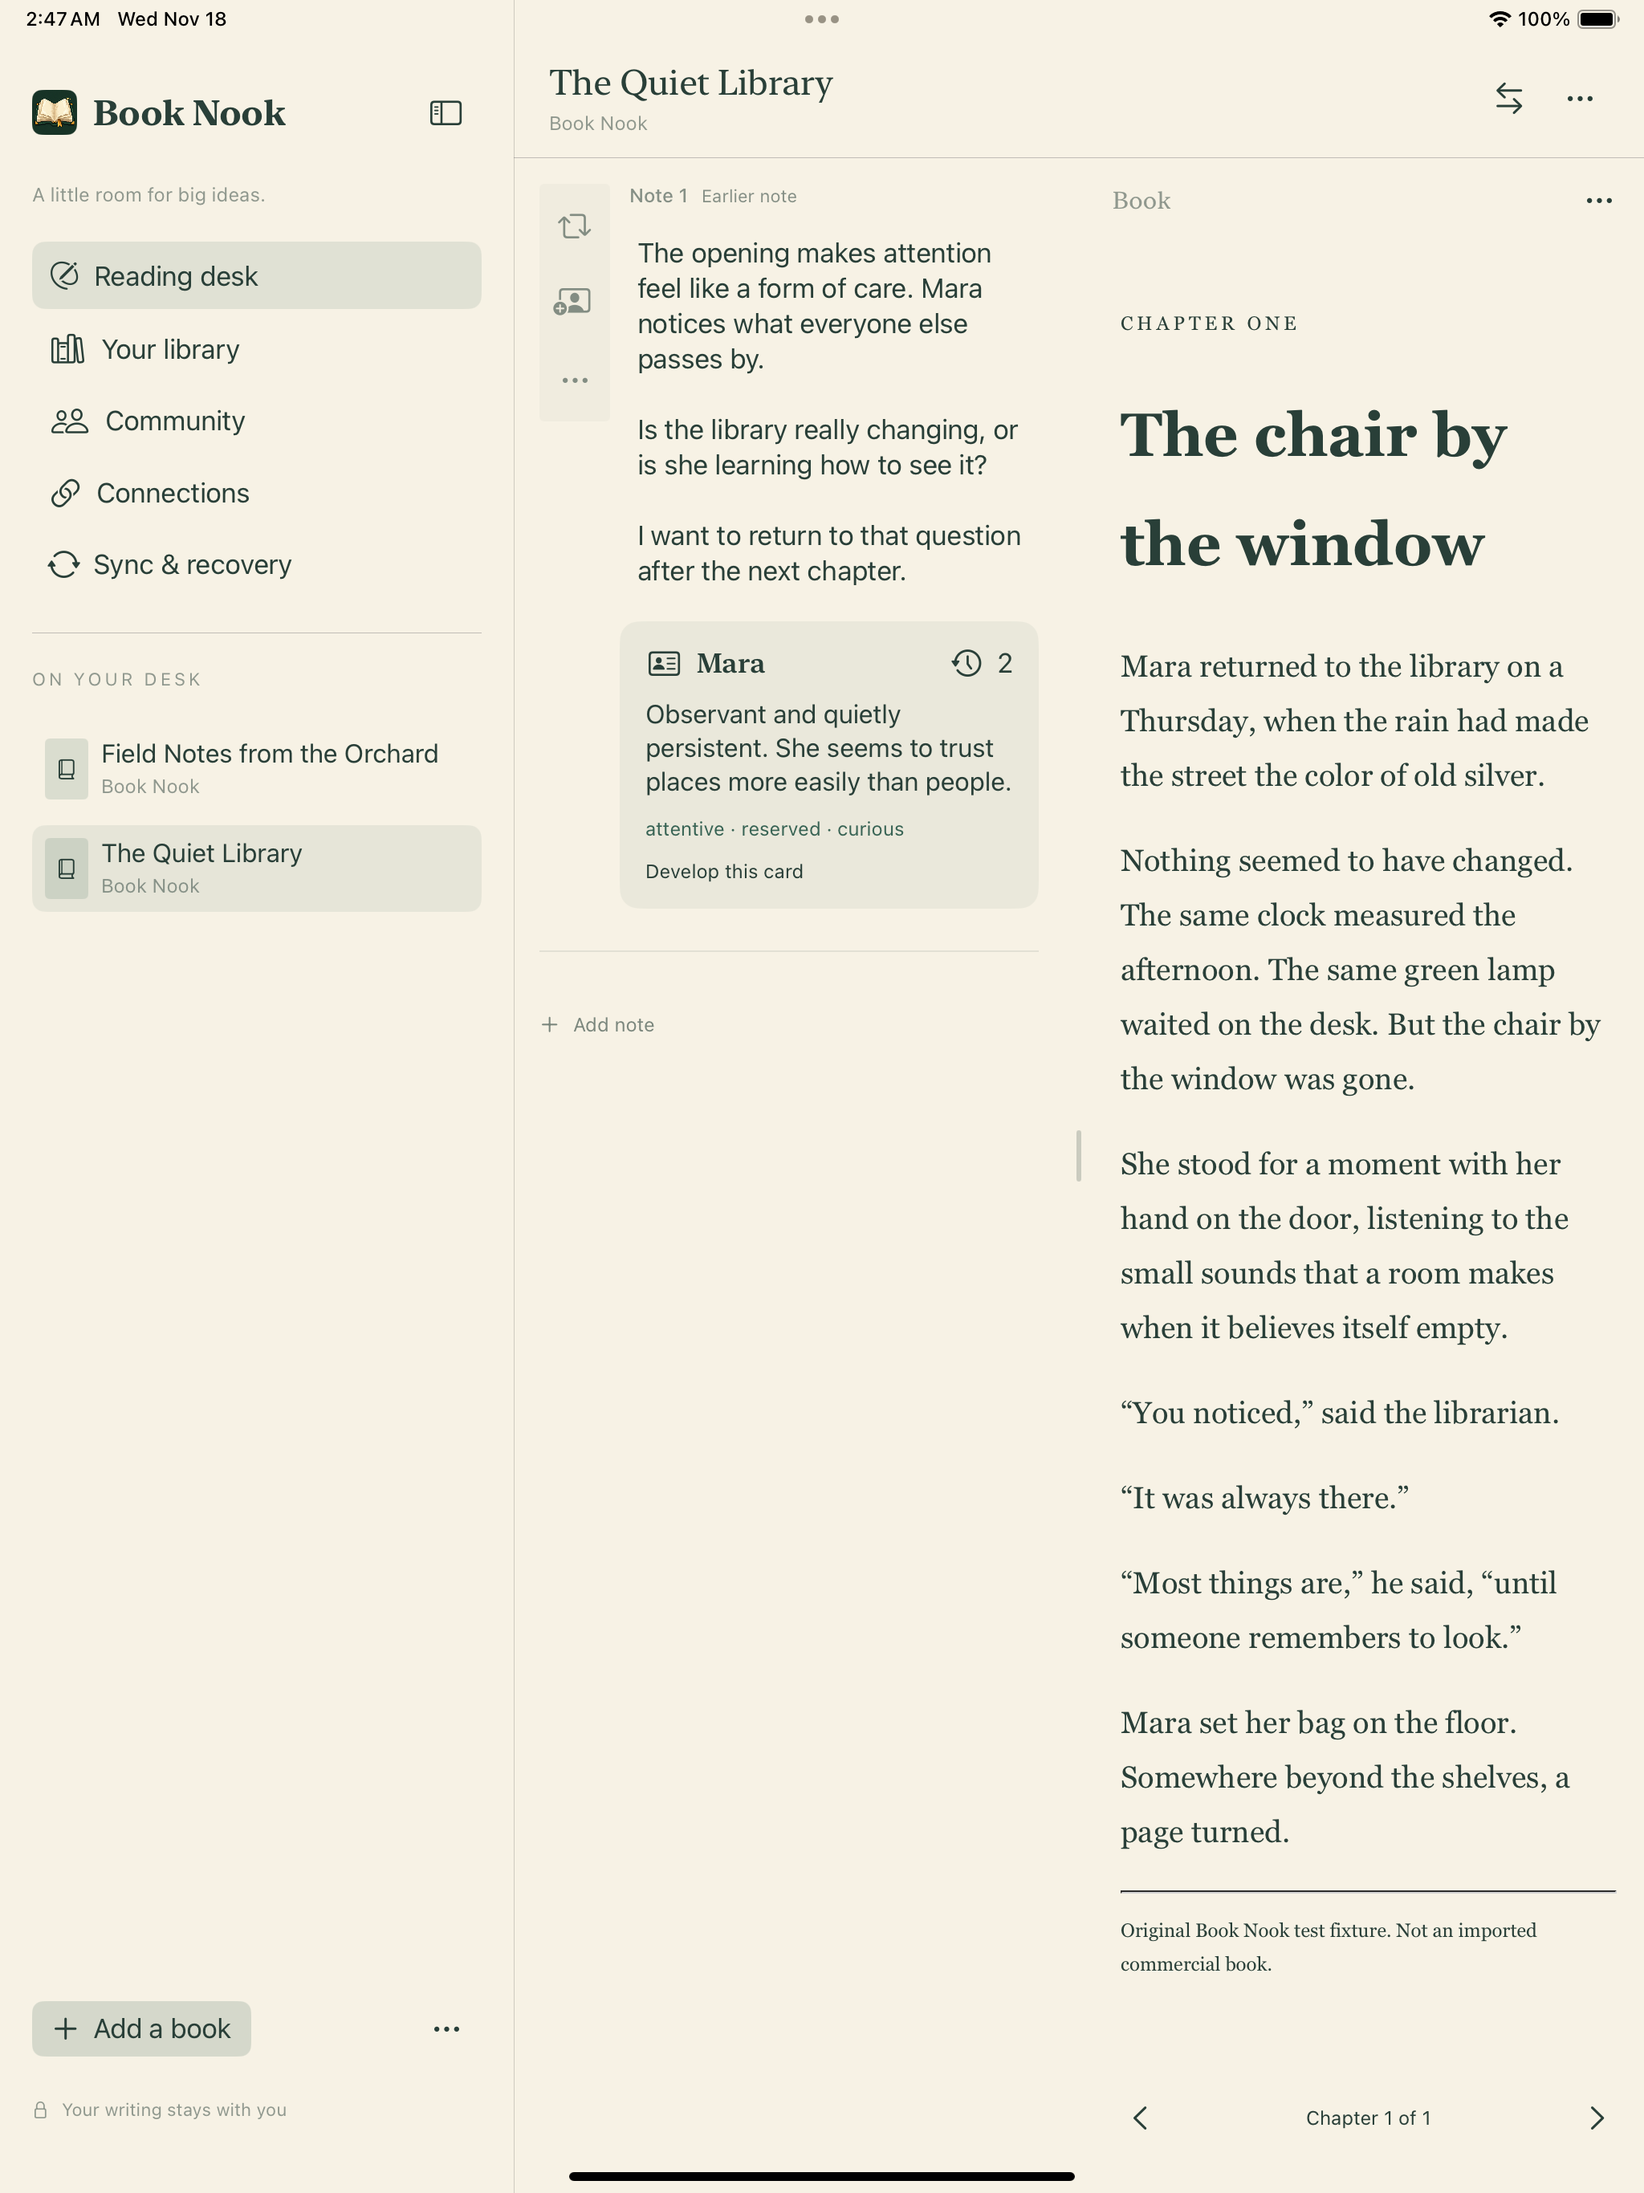
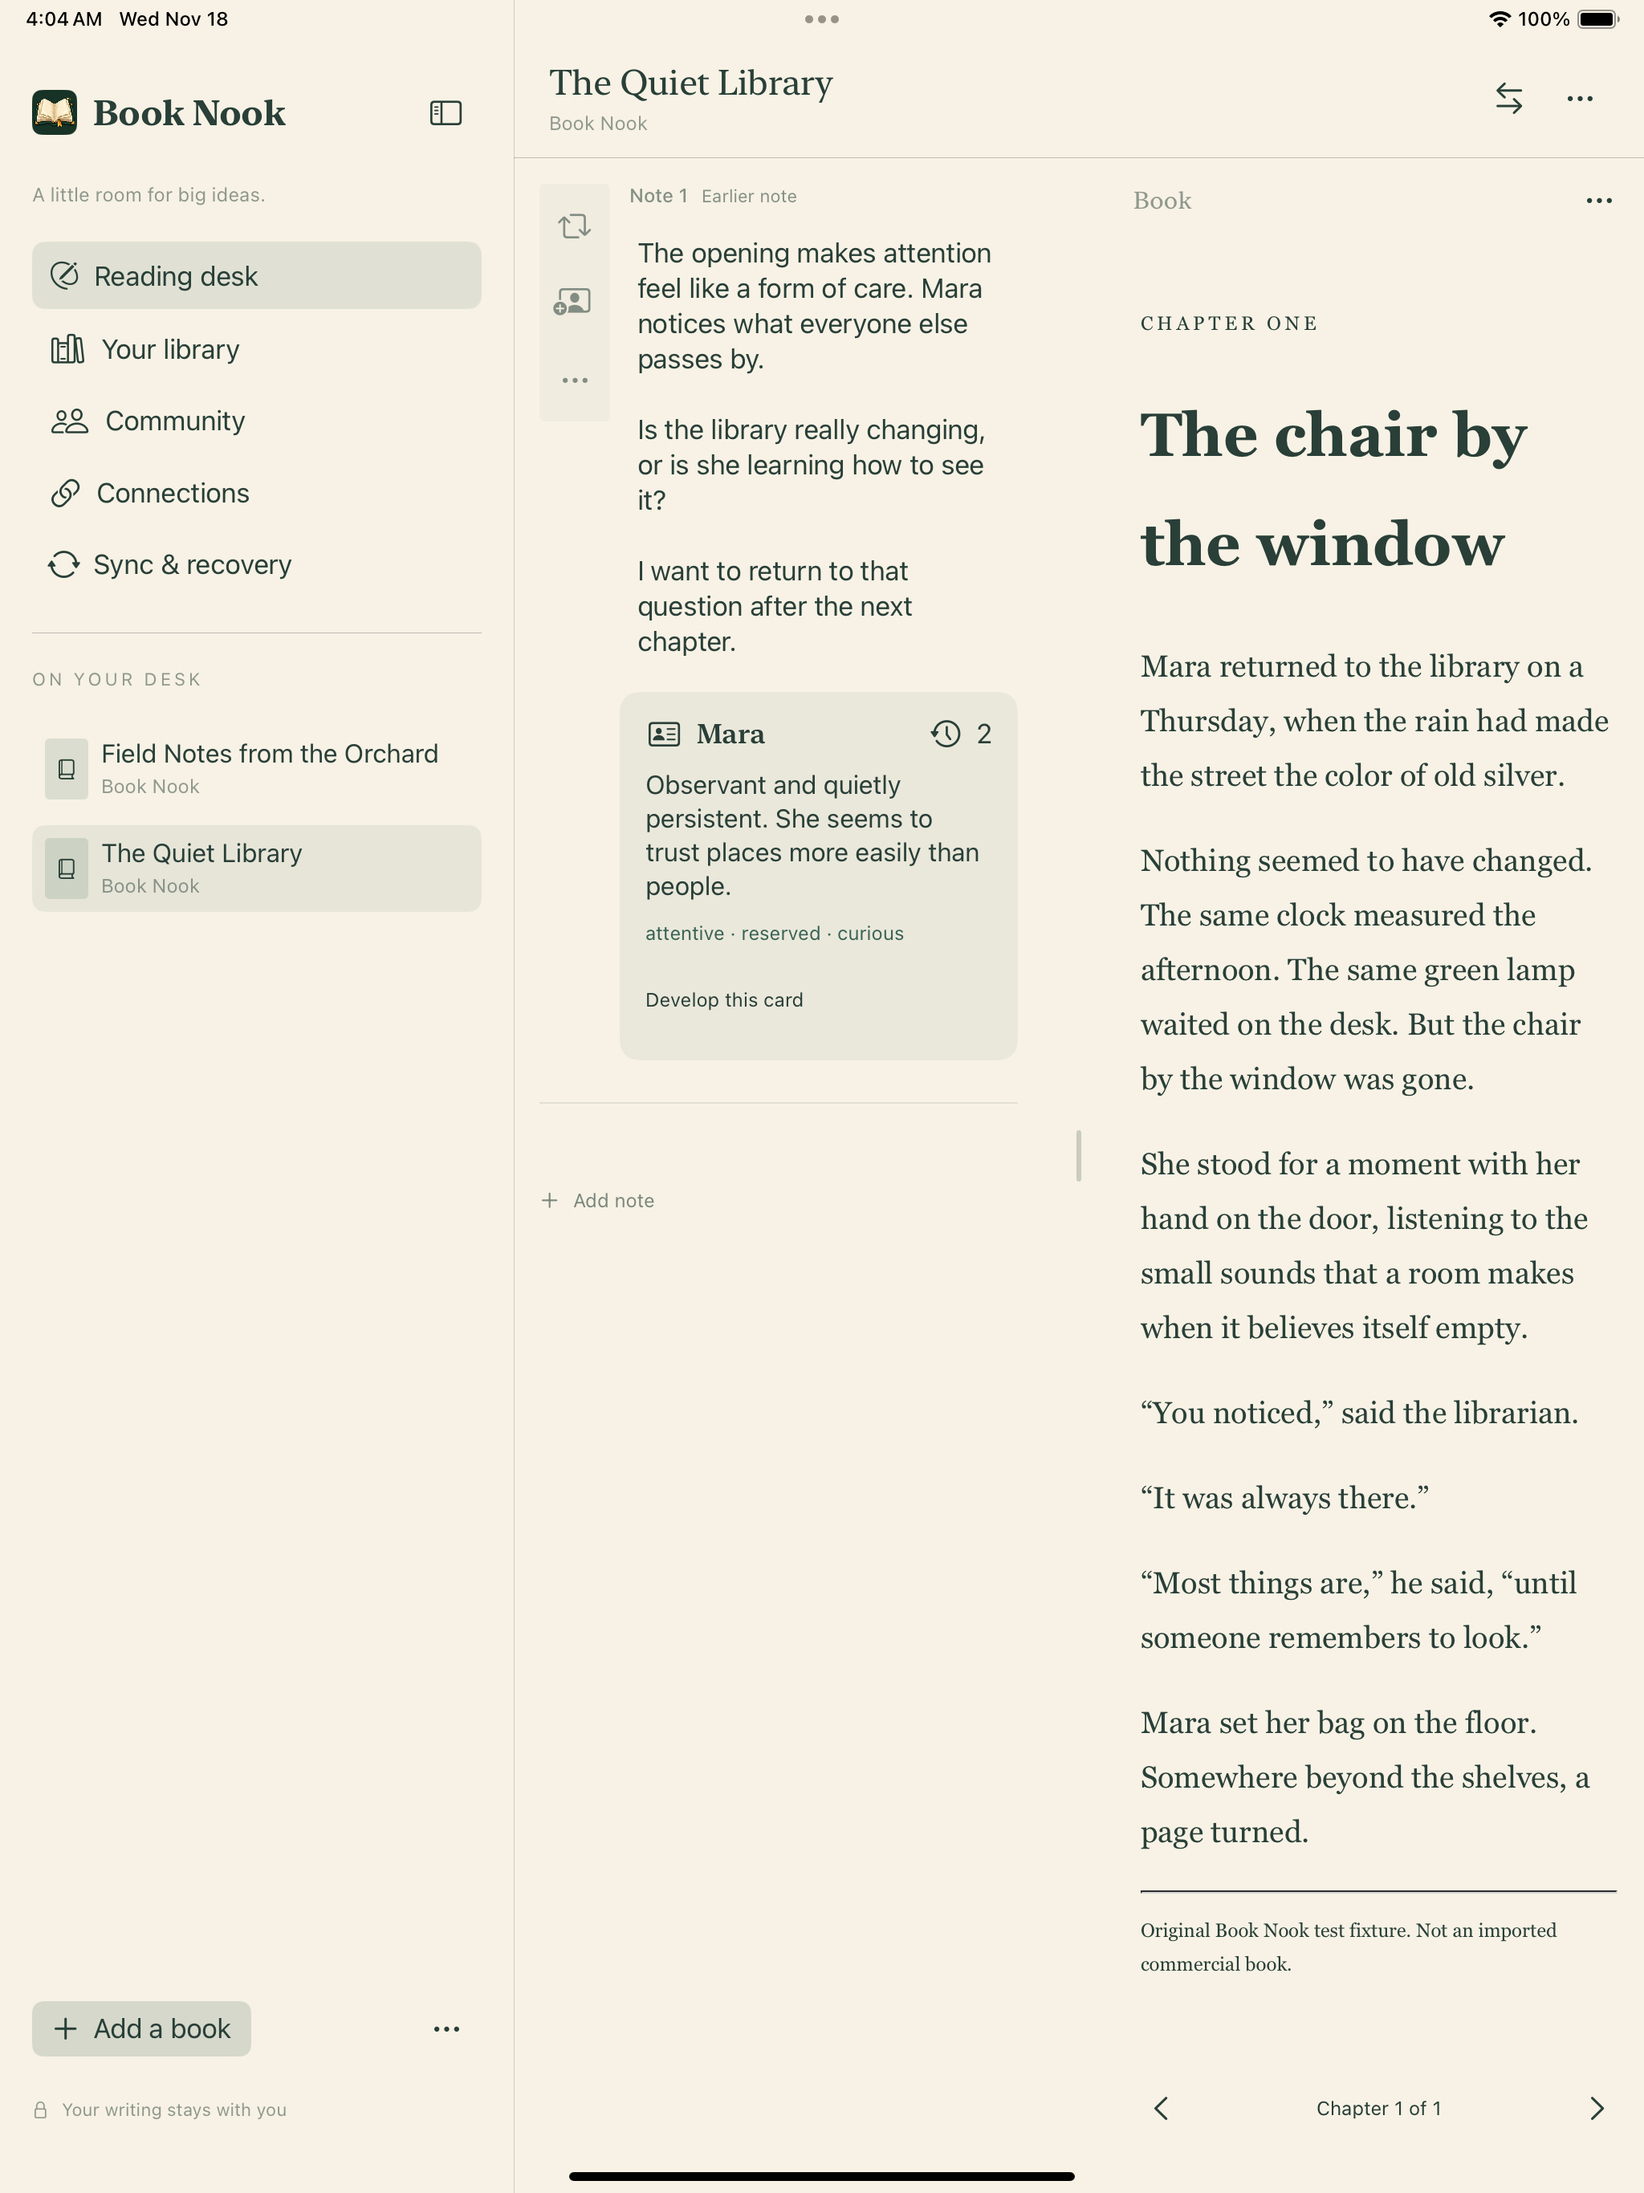
Record Book Nook preview 1724 and iPad update

diff --git a/README.md b/README.md
@@ -6,6 +6,8 @@ A native reading notebook for macOS and iPad, backed by open Rust, Swift and WAS
 
 The implementation includes an offline reading desk, rich TextKit editing, EPUB, PDF, and legacy MOBI6 reading and annotation, character interpretation history, imports, Castalia consent, approved encrypted device transfers, Nostr social workflows, and reviewed RSS/Atom settings with offline publications. **It is not a qualified production release:** live Kindle/Audible/Castalia access, current physical input/accessibility, remote social/device sync and minimum-OS runtime checks remain open. Unavailable integrations return explicit errors. See [delivery status](docs/DELIVERY.md), the [full-plan acceptance matrix](docs/PLAN-ACCEPTANCE.md), [validation](docs/VALIDATION.md), the [decision log](docs/DECISIONS.md), the [UX review](docs/UX-REVIEW.md), and [DevGraph work tracking](docs/DEVGRAPH.md).
 
+App preview 0.2.1 build **2026111724** enlarges four iPad reading-desk touch targets and makes the sidebar readable at accessibility text sizes. An isolated iPadOS Simulator test verified wrapping, scrolling and Add a book at the largest size. All eight public downloads matched. The normal iPad app was updated in place and reopened with its library, Scribble and social state intact. [App preview](https://github.com/bananawalnut/booknook/releases/tag/v0.2.1-app-preview.20261117.24) · [Build evidence](docs/app-2026111724-public-preview-evidence.json)
+
 App preview 0.2.1 build **2026111722** verifies the selected file when importing books and catalogs. The iPadOS Files acceptance covered cancel, attach and reopen of an original PDF. All eight public downloads matched. The normal iPad app was updated in place and reopened with its library, Scribble and social state intact. [App preview](https://github.com/bananawalnut/booknook/releases/tag/v0.2.1-app-preview.20261117.22) · [Build evidence](docs/app-2026111722-public-preview-evidence.json)
 
 App preview 0.2.1 build **2026111721** keeps the Mac sidebar readable as the desk narrows. All eight public downloads matched. The normal iPad update preserved the library, saved Scribble, social state, and observed orientation. A visible walkthrough of the packaged Mac app remains pending. [App preview](https://github.com/bananawalnut/booknook/releases/tag/v0.2.1-app-preview.20261117.21) · [Build evidence](docs/app-2026111721-public-preview-evidence.json)
@@ -90,7 +92,7 @@ The earlier iPad acceptance check [updated the normal app in place to 0.2.1 (202
 
 ![Book Nook iPad reading desk with a Margin note and character card alongside an EPUB](docs/screenshots/ipad-current.png)
 
-The Mac window shows published build **2026111720**. The iPad Simulator image shows published build **2026111722**. Both use the same sample desk. [Capture details](docs/screenshots/README.md)
+The Mac window shows published build **2026111720**. The iPad Simulator image shows published build **2026111724**. Both use the same sample desk. [Capture details](docs/screenshots/README.md)
 
 ## Run the native apps
 

diff --git a/docs/DELIVERY.md b/docs/DELIVERY.md
@@ -4,6 +4,8 @@ Book Nook has an integrated native development app and open Rust, Swift, and WAS
 
 Build 1722 is staged with one bounded native reader for selected EPUB/PDF/MOBI, catalog and feed-settings files. It checks the opened descriptor and keeps the picker’s original grant, byte limits, and cancellation handling. All three Mac import workflows passed against the published Swift SDK. The candidate iPadOS 18.6 Simulator app passed Files cancellation, selection from a separate file-sharing app, exact PDF attachment and a fresh-process reopen. Hosted archive checks are pending. [Native import evidence](native-selected-file-evidence.json)
 
+[App build 1724](https://github.com/bananawalnut/booknook/releases/tag/v0.2.1-app-preview.20261117.24) enlarges four iPad reading-desk touch targets and makes the sidebar readable at accessibility text sizes. An isolated iPadOS Simulator test verified wrapping, scrolling and Add a book at the largest size. All eight public downloads matched. The normal iPad app was updated in place and reopened with its library, Scribble and social state intact. [Build evidence](app-2026111724-public-preview-evidence.json) · [iPadOS accessibility acceptance](ipados-sidebar-dynamic-type-evidence.json)
+
 [App build 1722](https://github.com/bananawalnut/booknook/releases/tag/v0.2.1-app-preview.20261117.22) verifies the selected file when importing books and catalogs. The iPadOS Files acceptance covered cancel, attach and reopen of an original PDF. All eight public downloads matched. The normal iPad app was updated in place and reopened with its library, Scribble and social state intact. [Build evidence](app-2026111722-public-preview-evidence.json) · [Native file acceptance](native-selected-file-evidence.json)
 
 [App build 1721](https://github.com/bananawalnut/booknook/releases/tag/v0.2.1-app-preview.20261117.21) keeps the Mac sidebar readable as the desk narrows. All eight public downloads matched. The normal iPad update preserved the library, saved Scribble, social state, and observed orientation. A visible walkthrough of the packaged Mac app remains pending. The AppKit regression passed at a 735-point window width and through hide and reopen. The iPad branch type-checked for deployment to iPadOS 17. [Build evidence](app-2026111721-public-preview-evidence.json) · [Layout evidence](mac-sidebar-layout-evidence.json)

diff --git a/docs/screenshots/README.md b/docs/screenshots/README.md
@@ -5,8 +5,8 @@ Both captures use native Book Nook **0.2.1 Release apps** and synthetic desks.
 | Screenshot | Build | Workspace | Capture environment |
 |---|---|---|---|
 | [macOS reading desk](macos-current.jpg) | 2026111720 | *The Quiet Library* EPUB, a Margin note and a character card | macOS 26.4.1 native app window |
-| [iPad reading desk](ipad-current.png) | 2026111722 | *The Quiet Library* EPUB, a Margin note and a character card | iPad Air 13-inch (M2), iPadOS 18.6 Simulator, portrait |
+| [iPad reading desk](ipad-current.png) | 2026111724 | *The Quiet Library* EPUB, a Margin note and a character card | iPad Air 13-inch (M2), iPadOS 18.6 Simulator, portrait |
 
 The Mac image is an actual app window with an 80-pixel top crop. The iPad image preserves the original Simulator framebuffer. [Capture metadata](current.json) identifies each executable, source commit and image hash. [Build 1705 evidence](../app-2026111705-public-preview-evidence.json) records the separate installation on the physical iPad.
 
-Each image is tied to its capture and executable. [Build 1720 evidence](../app-2026111720-public-preview-evidence.json) · [Build 1721 evidence](../app-2026111721-public-preview-evidence.json) · [Build 1722 evidence](../app-2026111722-public-preview-evidence.json)
+Each image is tied to its capture and executable. [Build 1720 evidence](../app-2026111720-public-preview-evidence.json) · [Build 1721 evidence](../app-2026111721-public-preview-evidence.json) · [Build 1722 evidence](../app-2026111722-public-preview-evidence.json) · [Build 1724 evidence](../app-2026111724-public-preview-evidence.json)

diff --git a/docs/DECISIONS.md b/docs/DECISIONS.md
@@ -330,3 +330,4 @@ Detailed workstream records: [social](decisions/social.md), [integrations](decis
 | D242 | Include the largest-text sidebar repair with the accessibility fixes in preview build 1724. | Wrap sidebar labels at accessibility text sizes. Scroll navigation and books within the sidebar. Keep Add a book, Hide sidebar and active save status reachable. Verify the portrait Simulator at the normal and largest sizes. [Dynamic Type evidence](ipados-sidebar-dynamic-type-evidence.json) |
 | D243 | Verify the published SDK’s portable PDF archive in WebKit. | Exercise the default browser loader over loopback HTTP. Verify JSON equality, altered-asset rejection and byte-identical native SQLite restore. [WebKit evidence](kindle-pdf-webkit-sdk-evidence.json) |
 | D244 | Verify archive v4 character history and ordered Scribble in the released WebKit package. | Create the fixture through the native Desk commands, capture Kindle and PDF positions independently, and compare the entire browser result after native restore. Verify rejection of an altered PDF and missing history parent. [WebKit evidence](kindle-pdf-webkit-sdk-evidence.json) |
+| D245 | Publish the combined iPad accessibility improvements in development preview 1724. | Verify all archived apps and public downloads. Preserve the physical iPad desk during the update. Keep Simulator accessibility results separate from VoiceOver and physical-input qualification. [Build evidence](app-2026111724-public-preview-evidence.json) |
